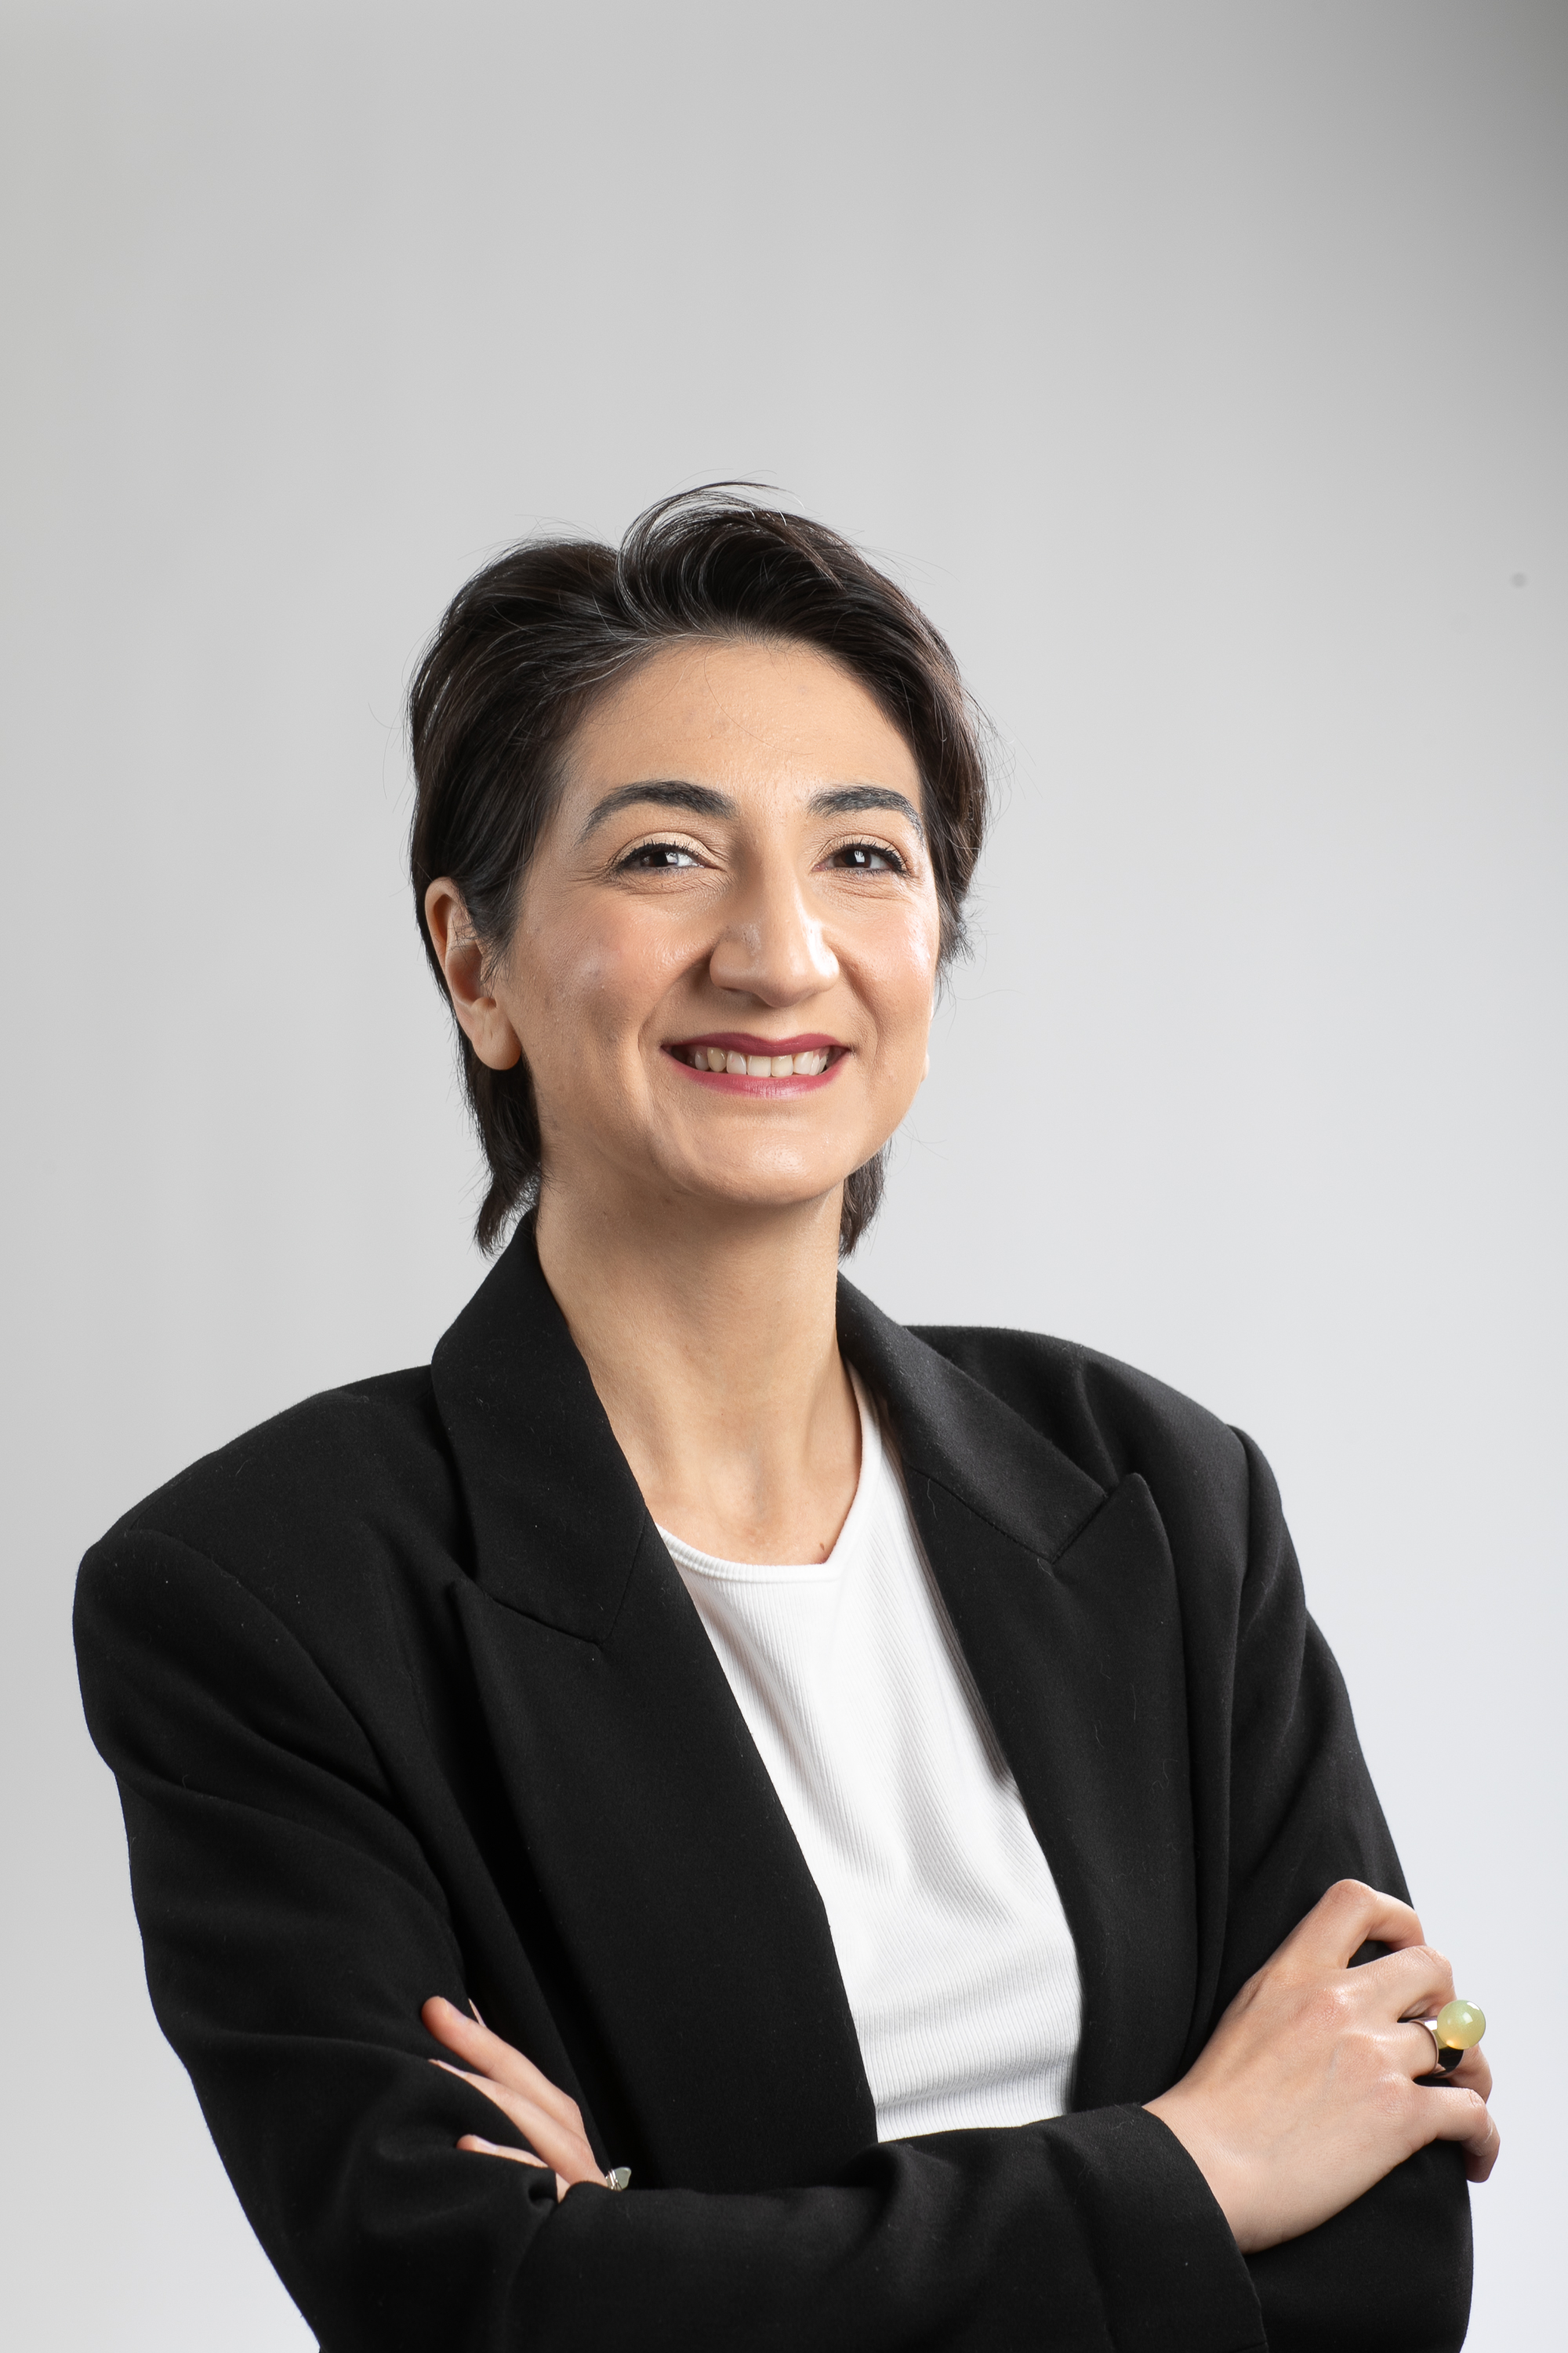
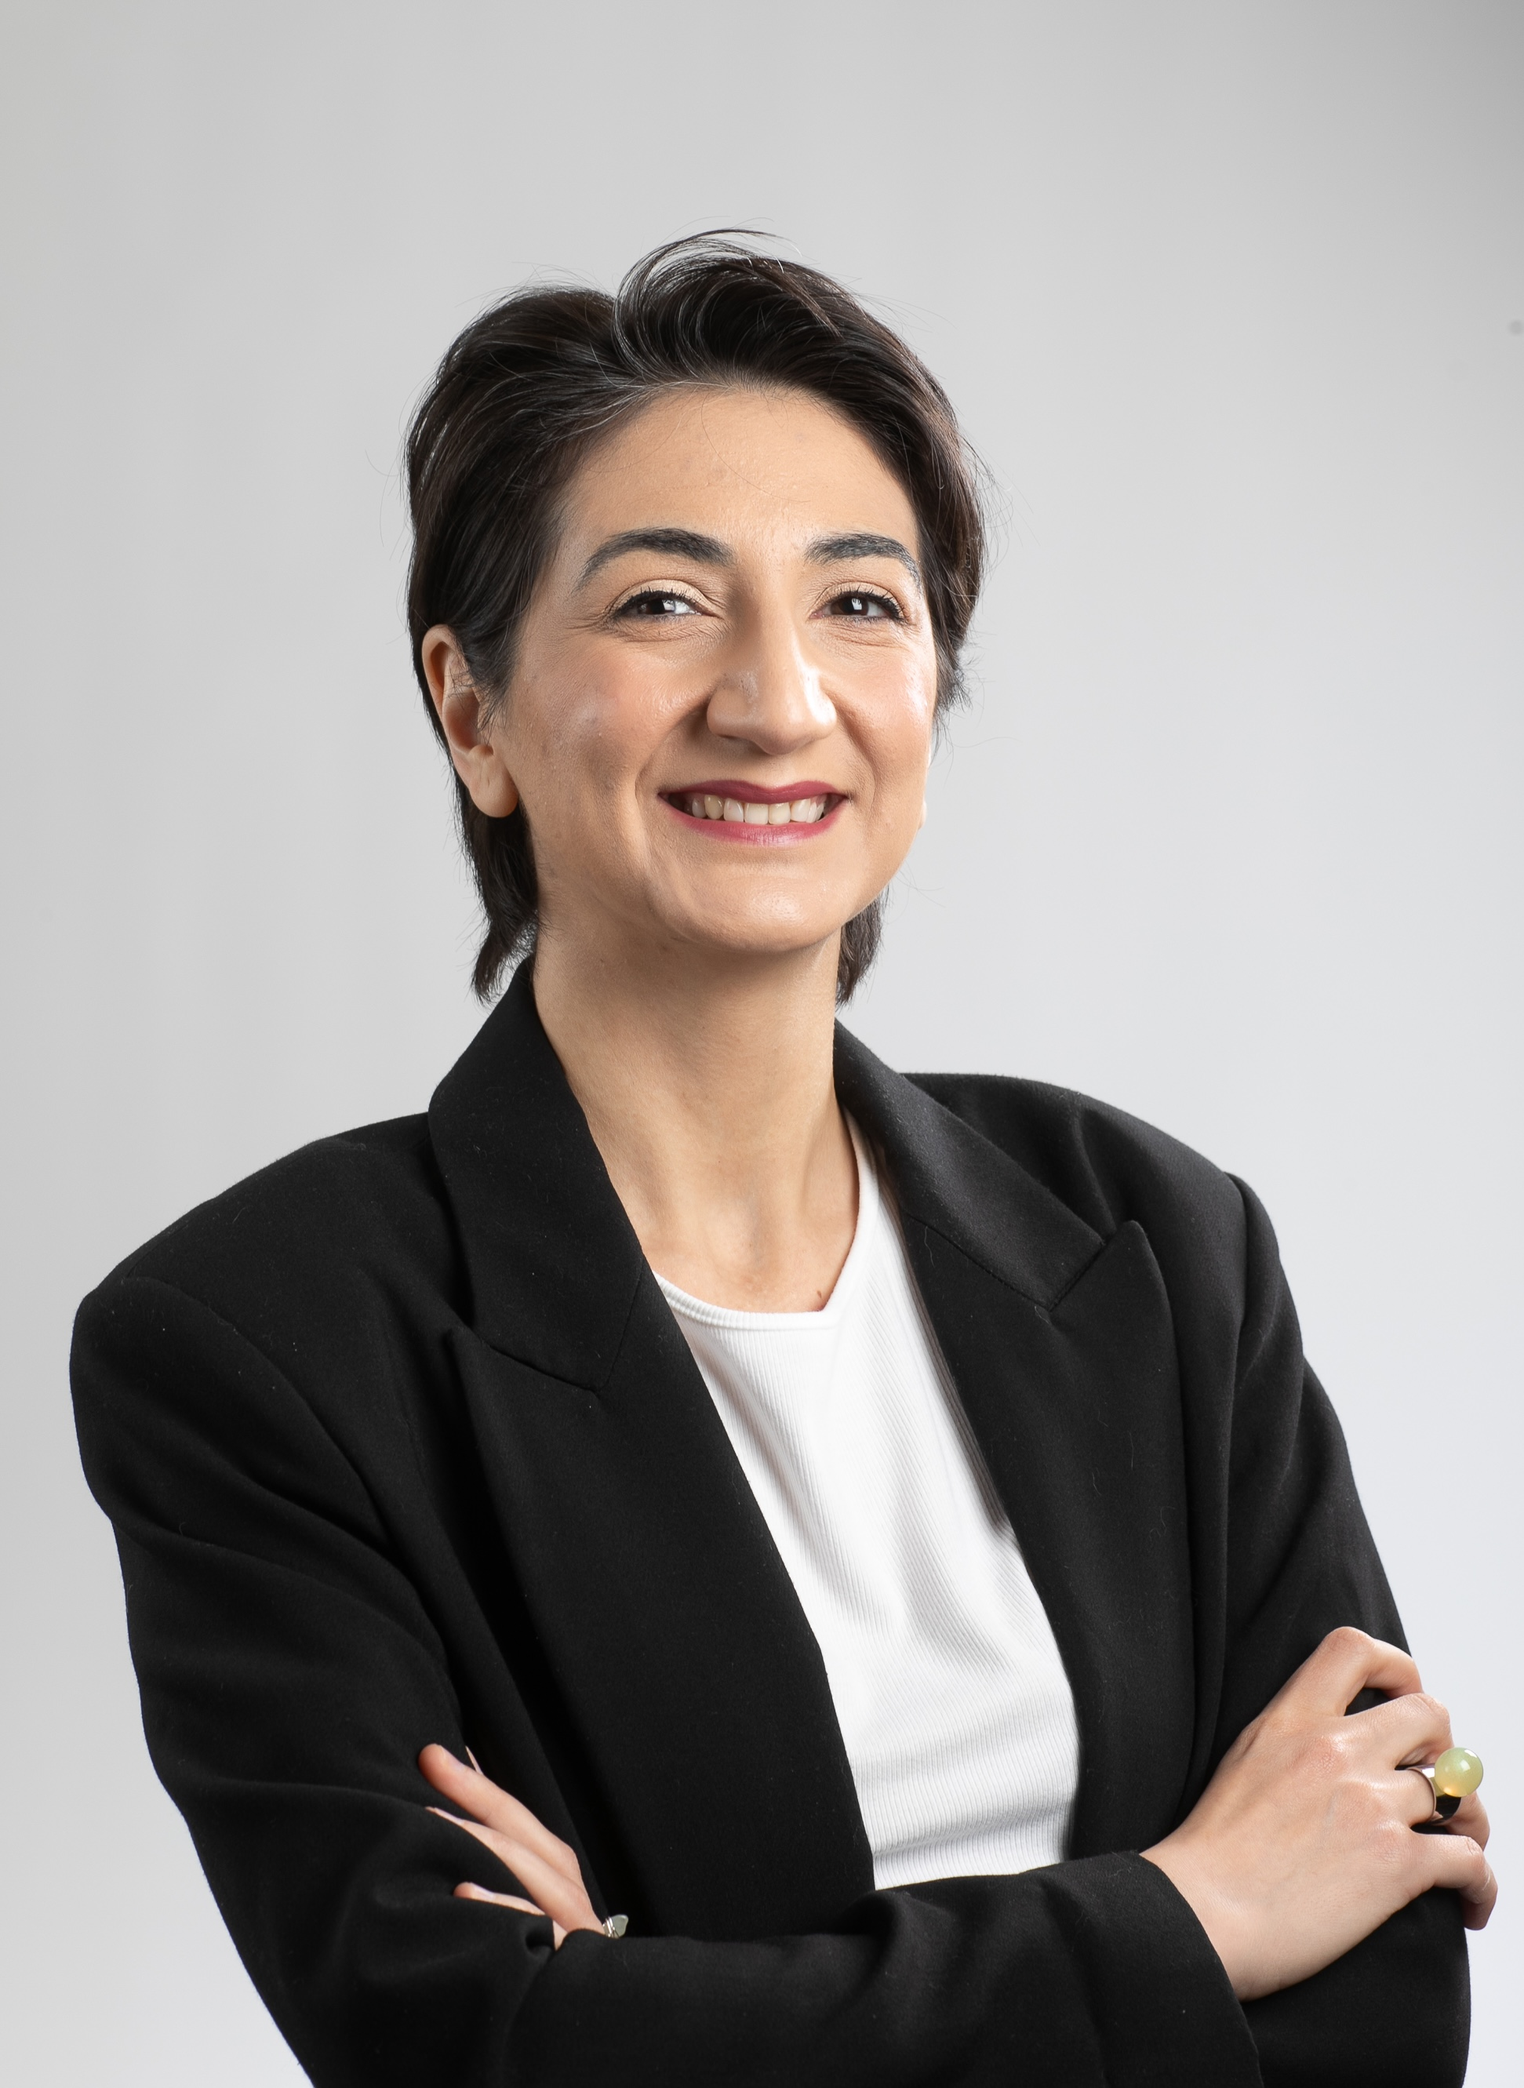
profile pic update

diff --git a/_pages/about.md b/_pages/about.md
@@ -7,7 +7,7 @@ subtitle: PhD Candidate
 profile:
   align: right
   image: prof_pic.jpg
-  image_circular: true # crops the image to make it circular
+  image_circular: false # crops the image to make it circular
   more_info: >
     <p> 500 W 120th St </p> <br> <p> New York </p> <p> NY 10027 </p>
 
